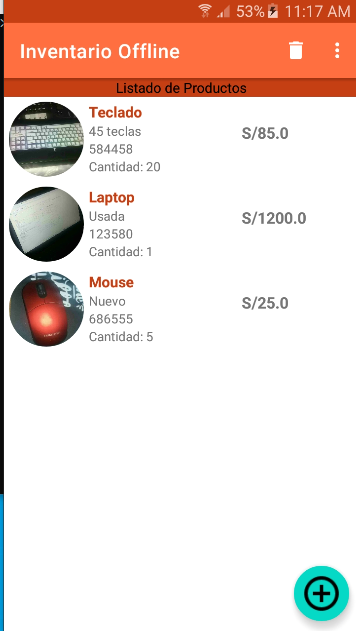
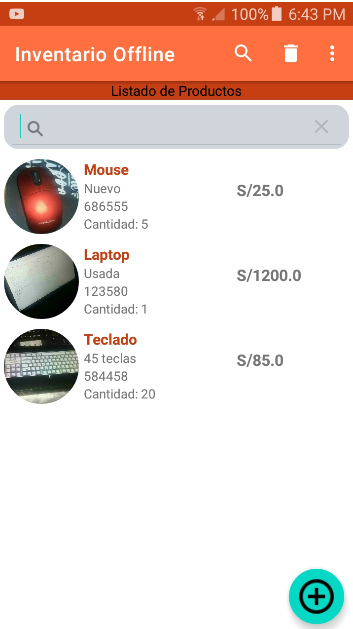
Search added with Room and Filter

diff --git a/app/src/main/java/com/example/inventariooffline/ui/product/adapters/ProductsAdapterV2.kt b/app/src/main/java/com/example/inventariooffline/ui/product/adapters/ProductsAdapterV2.kt
@@ -1,24 +1,23 @@
 package com.example.primerappmvvmretrofitkotlin.ui.main.adapters
 
-import android.content.Context
 import android.view.LayoutInflater
 import android.view.ViewGroup
+import android.widget.Filter
+import android.widget.Filterable
 import androidx.recyclerview.widget.DiffUtil
 import androidx.recyclerview.widget.DiffUtil.DiffResult.NO_POSITION
 import androidx.recyclerview.widget.RecyclerView
-import com.bumptech.glide.Glide
 import com.example.demo.core.BaseViewHolder
-import com.example.inventariooffline.R
 import com.example.inventariooffline.data.model.Product
 import com.example.inventariooffline.databinding.ProductsListBinding
 
 
 class ProductsAdapterV2(
     private val itemClickListener: OnProductClickListener
-) : RecyclerView.Adapter<BaseViewHolder<*>>() {
+) : RecyclerView.Adapter<BaseViewHolder<*>>(), Filterable {
 
     private var productsList = listOf<Product>()
-
+    private var productsListBackup = listOf<Product>()
 
     interface OnProductClickListener {
         //Método para gestionar el OnClick de los items del recyclerview
@@ -29,6 +28,8 @@ class ProductsAdapterV2(
 
     fun setProductList(productsList: List<Product>) {
         this.productsList = productsList
+        this.productsListBackup = productsList
+
         notifyDataSetChanged()
     }
     fun getProductList():List<Product>{
@@ -87,4 +88,33 @@ class ProductsAdapterV2(
 
         }
     }
+
+    //Método para filtrar registro por la búsqueda del searchView. Se extiende de Filterable para poder usar este método.
+
+    override fun getFilter(): Filter {
+        return object : Filter() {
+            override fun performFiltering(charSequence: CharSequence?): Filter.FilterResults {
+                val queryString = charSequence?.toString().orEmpty().lowercase()
+                return Filter.FilterResults().apply {
+                    values = when {
+                        queryString.isEmpty() -> productsListBackup
+                        else -> productsListBackup.filter {
+                            it.name.lowercase().contains(queryString) ||
+                                    it.barcode.lowercase().contains(queryString) ||
+                                    it.description.lowercase().contains(queryString)
+                        }
+                    }
+                }
+
+            }
+
+            override fun publishResults(charSequence: CharSequence?, filterResults: Filter.FilterResults) {
+                productsList = filterResults.values as List<Product>
+                notifyDataSetChanged()
+            }
+        }
+
+    }
+
+
 }

diff --git a/app/src/main/java/com/example/inventariooffline/ui/product/ProductsFragment.kt b/app/src/main/java/com/example/inventariooffline/ui/product/ProductsFragment.kt
@@ -2,10 +2,10 @@ package com.example.inventariooffline.ui.product
 
 import android.app.Activity
 import android.content.Intent
-import android.net.Uri
 import android.os.Bundle
 import android.provider.DocumentsContract
 import android.view.*
+import android.widget.SearchView
 import androidx.fragment.app.Fragment
 import android.widget.Toast
 import androidx.activity.result.contract.ActivityResultContracts
@@ -68,6 +68,8 @@ class ProductsFragment : Fragment(R.layout.fragment_products), ProductsAdapterV2
         super.onViewCreated(view, savedInstanceState)
         binding = FragmentProductsBinding.bind(view)
         setObservers()
+        setupSearchView()
+
         //habilitar menu
         setHasOptionsMenu(true)
         binding.rvProducts.layoutManager = LinearLayoutManager(requireContext())
@@ -95,6 +97,7 @@ class ProductsFragment : Fragment(R.layout.fragment_products), ProductsAdapterV2
         viewModel.products.observe(viewLifecycleOwner) {
             productsRecyclerViewAdapterV2.setProductList(it)
         }
+
     }
 
 
@@ -173,6 +176,11 @@ class ProductsFragment : Fragment(R.layout.fragment_products), ProductsAdapterV2
 
         }
 
+        if(id == R.id.menu_buscar){
+            binding.searchView.visibility=View.VISIBLE
+
+        }
+
 
         return super.onOptionsItemSelected(item)
     }
@@ -215,5 +223,27 @@ class ProductsFragment : Fragment(R.layout.fragment_products), ProductsAdapterV2
         val minute = c.get(Calendar.MINUTE)
 
         return "${year}-${month}-${day}_${hour}:${minute}"
+    }
+
+    private fun setupSearchView(){
+        binding.searchView.setOnQueryTextListener(object : SearchView.OnQueryTextListener{
+            override fun onQueryTextSubmit(query: String?): Boolean {
+                //Busqueda usando el viewModel y Flow
+                viewModel.searcQueryProduct.value = query!!
+
+                //Busqueda usando el filter:
+                //productsRecyclerViewAdapterV2.filter.filter(query)
+                return false
+            }
+            override fun onQueryTextChange(newText: String?): Boolean {
+                //Busqueda usando el viewModel y Flow
+                viewModel.searcQueryProduct.value = newText!!
+
+                //Busqueda usando el filter:
+                //productsRecyclerViewAdapterV2.filter.filter(newText!!)
+
+                return false
+            }
+        })
     }
 }

diff --git a/app/src/main/java/com/example/inventariooffline/presentation/ProductViewModel.kt b/app/src/main/java/com/example/inventariooffline/presentation/ProductViewModel.kt
@@ -1,17 +1,28 @@
 package com.example.inventariooffline.presentation
 
+import android.util.Log
 import androidx.lifecycle.*
 import com.example.inventariooffline.core.Resource
 import com.example.inventariooffline.data.model.Product
 import com.example.inventariooffline.repository.ProductRepository
 import kotlinx.coroutines.Dispatchers
+import kotlinx.coroutines.flow.MutableStateFlow
+import kotlinx.coroutines.flow.flatMapLatest
 import kotlinx.coroutines.launch
 import kotlinx.coroutines.withContext
 
 class ProductViewModel (private val repo: ProductRepository) : ViewModel() {
 
+    //Flow normal
+    //val products = repo.allProducts().asLiveData()
 
-    val products = repo.allProducts().asLiveData()
+    //Flow para buscar. Se llama al metodo del repo que hace la búsqueda con LIKE.
+    // Un solo método que lista si no tiene nada como parámetro de busqueda o busca si le pasan parámetro gracias al Like
+    val searcQueryProduct = MutableStateFlow("") //se inicia con un valor por defecto
+    private val productsFlow = searcQueryProduct.flatMapLatest {
+        repo.searchProduct(it)
+    }
+    val products = productsFlow.asLiveData()
 
     //######################### LiveData para obtener todos los products ###############
     fun getAllProducts() = liveData(Dispatchers.IO) {
@@ -63,6 +74,18 @@ class ProductViewModel (private val repo: ProductRepository) : ViewModel() {
     }
     //###############################################################################################
 
+    //################################## Buscar producto con flow ###################################
+    // Ejemplo usando un método custom del repositorio para hacer la búsqueda.
+   /*
+    val searcQueryProduct = MutableStateFlow("") //se inicia con un valor por defecto
+    private val productsFlow = searcQueryProduct.flatMapLatest {
+        repo.searchProduct(it)
+    }
+    val productsFromSearch = productsFlow.asLiveData()
+    */
+    //Fuente: https://youtu.be/bp7F-XB01kw?t=1538
+    // Siguiente video https://www.youtube.com/watch?v=dd_Lv7AxqkY Combina multiple Flow
+    //##############################################################################################
 }
 
 class ProductViewModelFactory(private val repo: ProductRepository) : ViewModelProvider.Factory {

diff --git a/app/src/main/java/com/example/inventariooffline/data/local/ProductDao.kt b/app/src/main/java/com/example/inventariooffline/data/local/ProductDao.kt
@@ -29,4 +29,10 @@ interface ProductDao {
     @Query("DELETE FROM product_table_entity")
     suspend fun deleteAllProducts()
 
+    //buscar solo por nombre:
+    // @Query("SELECT * FROM product_table_entity WHERE name LIKE '%' || :search || '%' ")
+    //buscar en varios campos con like
+    @Query("SELECT * FROM product_table_entity WHERE name LIKE '%' || :search || '%' OR barcode LIKE '%' || :search || '%' ")
+    fun searchProduct(search: String?): Flow<List<Product>>
+
 }

diff --git a/app/src/main/java/com/example/inventariooffline/ui/product/adapters/ProductsAdapter.kt b/app/src/main/java/com/example/inventariooffline/ui/product/adapters/ProductsAdapter.kt
@@ -3,6 +3,8 @@ package com.example.primerappmvvmretrofitkotlin.ui.main.adapters
 import android.content.Context
 import android.view.LayoutInflater
 import android.view.ViewGroup
+import android.widget.Filter
+import android.widget.Filterable
 import androidx.recyclerview.widget.DiffUtil
 import androidx.recyclerview.widget.RecyclerView
 import com.bumptech.glide.Glide
@@ -52,4 +54,6 @@ class ProductsAdapter(
 
         }
     }
+
+
 }

diff --git a/app/src/main/java/com/example/inventariooffline/data/local/LocalProductDatasource.kt b/app/src/main/java/com/example/inventariooffline/data/local/LocalProductDatasource.kt
@@ -28,6 +28,10 @@ class LocalProductDatasource (private val productDao: ProductDao){
         productDao.deleteAllProducts()
     }
 
+     fun searchProduct(search:String?): Flow<List<Product>> {
+        return productDao.searchProduct(search)
+    }
+
 
 }
 

diff --git a/app/src/main/java/com/example/inventariooffline/repository/ProductRepository.kt b/app/src/main/java/com/example/inventariooffline/repository/ProductRepository.kt
@@ -10,5 +10,5 @@ interface ProductRepository {
     suspend fun updateProduct(product: Product)
     suspend fun deleteProduct(product: Product)
     suspend fun deleteAllProducts()
-
+    fun searchProduct(search:String?): Flow<List<Product>>
 }

diff --git a/app/src/main/java/com/example/inventariooffline/repository/ProductRepositoryImpl.kt b/app/src/main/java/com/example/inventariooffline/repository/ProductRepositoryImpl.kt
@@ -35,5 +35,8 @@ class ProductRepositoryImpl (
         dataSourceLocal.deleteAllProducts()
     }
 
+    override  fun searchProduct(search: String?): Flow<List<Product>> {
+       return  dataSourceLocal.searchProduct(search)
+    }
 
 }
